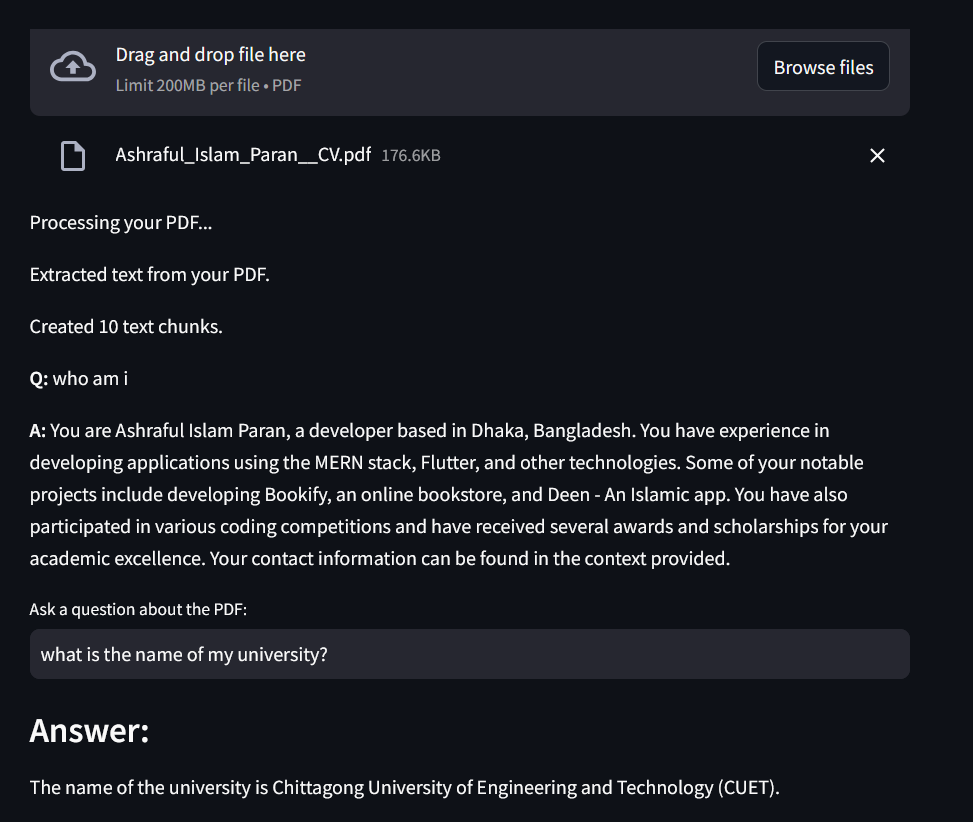
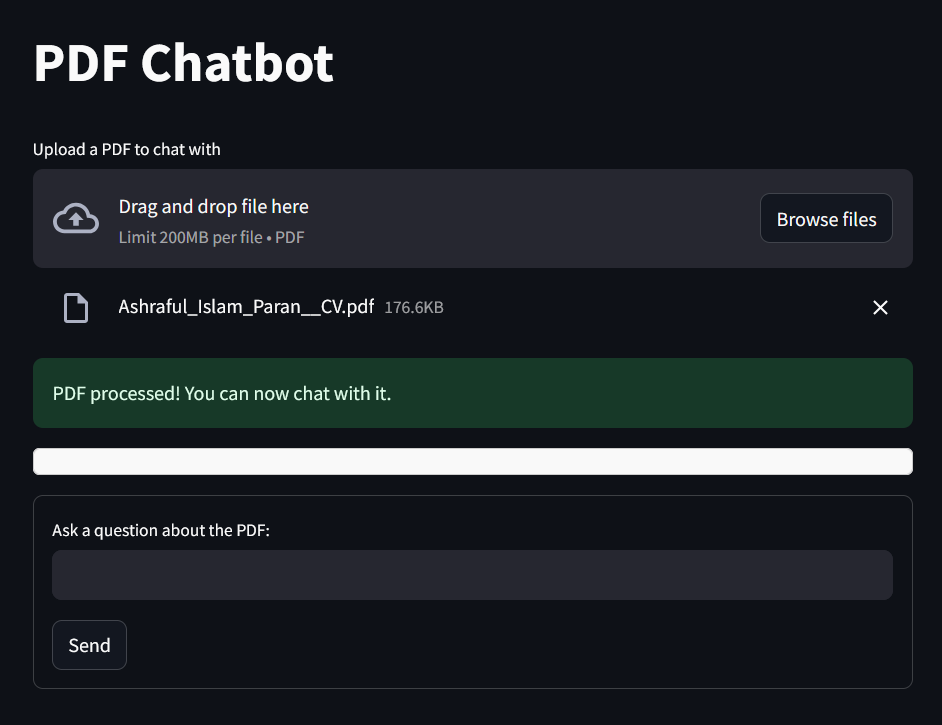
Update README with setup instructions, prerequisites, and troubleshooting tips; add additional image

diff --git a/README.md b/README.md
@@ -1,3 +1,50 @@
 # ChatWithPDF-Rag-App
 
 ![alt text](image.png)
+![alt text](image-1.png)
+
+## Prerequisites
+
+1. **Python**: Ensure Python 3.11 or later is installed.
+2. **Dependencies**: Install the required Python packages listed in `requirements.txt`.
+3. **Hugging Face Token**: Obtain a Hugging Face API token from [Hugging Face](https://huggingface.co/).
+
+## Setup Instructions
+
+1. **Clone the Repository**:
+   ```bash
+   git clone https://github.com/ashrafulparan2/ChatWithPDF-Rag-App.git
+   cd ChatWithPDF-Rag-App
+
+2. **Install Dependencies:**
+Use the following command to install the required Python packages:
+ ```bash
+pip install -r requirements.txt
+```
+2. **Prepare the Vectorstore:** Ensure the FAISS vectorstore files (index.faiss and index.pkl) are present in the vectorstore/db_faiss/ directory. These files are required for the application to function.
+
+2. **Set Up Hugging Face Authentication:** Log in to Hugging Face using your API token:
+ ```bash
+huggingface-cli login
+```
+2. **Run the Application:** Start the Streamlit application:
+ ```bash
+streamlit run app.py --server.enableCORS false --server.enableXsrfProtection false
+```
+
+2. **Access the Application:** Open your browser and navigate to http://localhost:8501 to interact with the app.
+
+
+## Features
+**Question Answering:** Ask questions about any PDF
+
+**Custom Prompt:** Uses a custom prompt to ensure accurate and context-aware responses.
+Source Documents: Displays the source documents used to generate the answer.
+
+## Notes
+The application uses the sentence-transformers/all-MiniLM-L6-v2 model for embeddings and the mistralai/Mistral-7B-Instruct-v0.3 model for language generation.
+Ensure the FAISS vectorstore is correctly set up before running the app.
+## Troubleshooting
+If the app fails to load, verify that all dependencies are installed and the Hugging Face token is correctly configured.
+Ensure the vectorstore files are not corrupted and are in the correct directory.
+ ```
